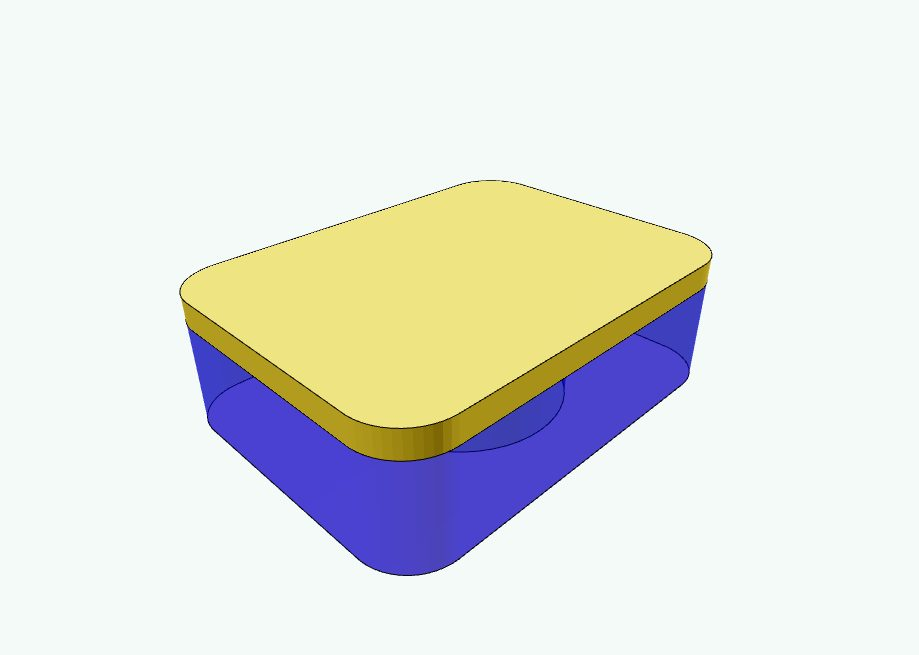
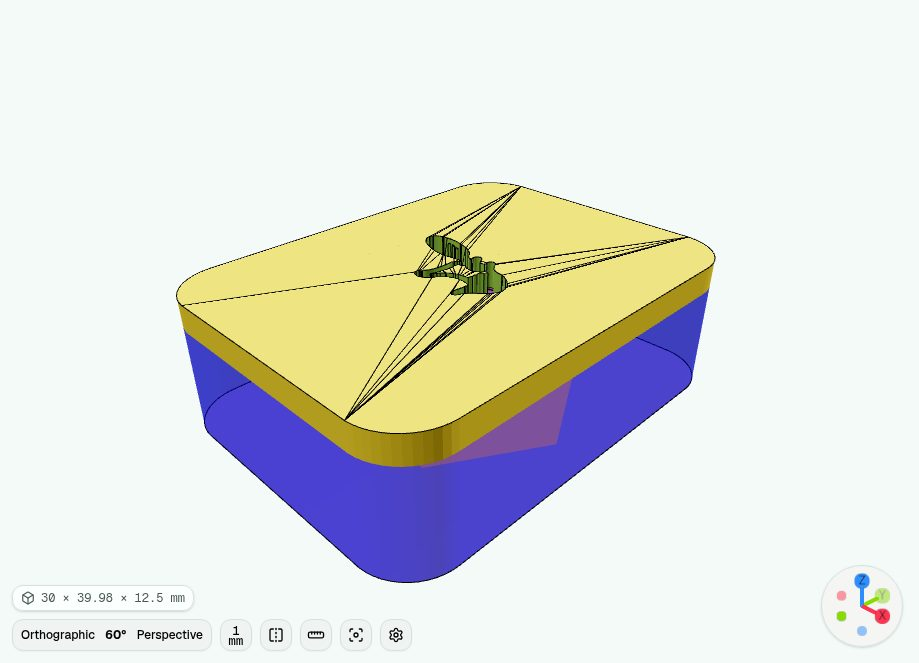
Carry a project's meshes to the render, so the stamp's handle is a model you can take away
The stamp's `component_selection` already offered Stamp and Handle. Picking
Handle produced nothing — not an empty render, an export that failed with "No
geometry available" — because the handle is a binary STL and the project loader
reads every file as `?raw` text. The mesh never reached the preview filesystem,
so the same silence hid the stamp's knub inside its own assembly.

Meshes now come through a second loader: `.stl` and `.3mf` are emitted as URLs
and fetched when the project opens, then merged into `sourceFiles` as bytes.
`PlaygroundSourceFile` becomes `string | Uint8Array` — text for what a viewer
reads or edits, bytes for what a model only imports — and the preview filesystem
takes both, since it wanted bytes all along.

Measured on the stamp, rendering each component with and without the STLs
present:

| Component | Without      | With                          |
| --------- | ------------ | ----------------------------- |
| Stamp     | 3596 tri     | 7888 tri — the knub appears   |
| Handle    | export fails | 6858 tri, 20 x 23.1 x 50 mm   |

Confirmed in the browser: switching Component Selection to Handle renders the
handle, and Export → STL downloads exactly that mesh (6858 facets, same bounds).
The gallery poster is regenerated, since the old one predates the knub.

Three details worth keeping: a fetch that fails skips the asset rather than
failing the project, because a model missing a part still opens; binary assets
[…]

diff --git a/apps/ui/app/routes/playground/projects.ts b/apps/ui/app/routes/playground/projects.ts
@@ -1,6 +1,10 @@
 import type { FileExtension } from '@taucad/types';
 import { z } from 'zod';
-import type { PlaygroundExample, PlaygroundVariant } from '#routes/playground/playground-examples.js';
+import type {
+  PlaygroundExample,
+  PlaygroundSourceFile,
+  PlaygroundVariant,
+} from '#routes/playground/playground-examples.js';
 
 const meshExportFormats = ['glb', 'stl', '3mf', 'obj'] as const;
 const solidExportFormats = ['glb', 'stl', '3mf', 'step'] as const;
@@ -172,6 +176,19 @@ const projectSourceLoadersByPath = import.meta.glob<string>('./projects/**/*.{js
   query: '?raw',
 });
 
+/**
+ * Assets a model imports at render time but no one edits: meshes and images.
+ * They cannot come through the `?raw` text loader above — an STL is bytes, and
+ * decoding it as UTF-8 corrupts it — so they are emitted as separate URLs and
+ * fetched when the project opens. That keeps them out of the gallery payload
+ * (nothing is fetched until a project is selected) and out of the code editor,
+ * which only ever shows the text sources.
+ */
+const projectBinaryAssetUrlsByPath = import.meta.glob<string>('./projects/**/*.{stl,3mf}', {
+  import: 'default',
+  query: '?url',
+});
+
 const projectStaticPreviewGlbByPath = import.meta.glob<string>('./projects/**/*.glb', {
   eager: true,
   import: 'default',
@@ -284,9 +301,40 @@ function presetsForProject(projectId: string): ProjectPresets | undefined {
   throw new Error(`Invalid root playground project presets at "${presetsPath}": ${z.prettifyError(result.error)}`);
 }
 
-async function sourceFilesForProject(projectId: string, metadata: ProjectMetadata): Promise<Record<string, string>> {
+/**
+ * The project's binary assets, by path relative to the project folder. A fetch
+ * that fails is reported and skipped rather than failing the project: the model
+ * then renders without that asset, which is exactly what it did before these
+ * were carried at all.
+ */
+async function binaryAssetsForProject(projectId: string): Promise<Record<string, Uint8Array<ArrayBuffer>>> {
   const prefix = `./projects/${projectId}/`;
-  const sourceFiles: Record<string, string> = {};
+  const matching = Object.entries(projectBinaryAssetUrlsByPath).filter(([assetPath]) => assetPath.startsWith(prefix));
+  const loaded = await Promise.all(
+    matching.map(async ([assetPath, loadUrl]) => {
+      try {
+        const response = await fetch(await loadUrl());
+        if (!response.ok) {
+          throw new Error(`HTTP ${response.status}`);
+        }
+
+        return [assetPath.slice(prefix.length), new Uint8Array(await response.arrayBuffer())] as const;
+      } catch (error) {
+        console.warn(`Playground project "${projectId}" could not load asset "${assetPath}"`, error);
+        return undefined;
+      }
+    }),
+  );
+
+  return Object.fromEntries(loaded.filter((entry) => entry !== undefined));
+}
+
+async function sourceFilesForProject(
+  projectId: string,
+  metadata: ProjectMetadata,
+): Promise<Record<string, PlaygroundSourceFile>> {
+  const prefix = `./projects/${projectId}/`;
+  const sourceFiles: Record<string, PlaygroundSourceFile> = {};
 
   const matchingLoaders = Object.entries(projectSourceLoadersByPath).filter(
     ([sourcePath]) =>
@@ -316,7 +364,7 @@ async function sourceFilesForProject(projectId: string, metadata: ProjectMetadat
     }
   }
 
-  return sourceFiles;
+  return { ...sourceFiles, ...(await binaryAssetsForProject(projectId)) };
 }
 
 function hasProjectSource(projectId: string, relativePath: string): boolean {
@@ -481,7 +529,7 @@ export async function loadProjectExample(projectId: string): Promise<PlaygroundE
   const entryFile = metadata.entry;
 
   const code = sourceFiles[mainFile] ?? sourceFiles[entryFile];
-  if (!code) {
+  if (typeof code !== 'string') {
     throw new Error(`Project "${projectId}" is missing source for entry "${entryFile}"`);
   }
 

diff --git a/apps/ui/app/routes/playground/route.tsx b/apps/ui/app/routes/playground/route.tsx
@@ -13,6 +13,7 @@ import { FileManagerProvider } from '#hooks/use-file-manager.js';
 import { loadPlaygroundExample, playgroundExamples } from '#routes/playground/playground-examples.js';
 import type {
   PlaygroundExample,
+  PlaygroundSourceFile,
   PlaygroundVariant,
   PlaygroundUpload,
   PlaygroundUploadedFile,
@@ -65,6 +66,11 @@ const shareCodec = playgroundShareCodec;
 /** The parameter pane emits override deltas; an empty record means "use defaults." */
 function hasParameterOverrides(parameters: Record<string, unknown>, baseline: Record<string, unknown>): boolean {
   return Object.keys(parameters).length > 0 && !haveSamePlaygroundParameters(parameters, baseline);
+}
+
+/** A project file's text, or undefined when it is one of the binary assets. */
+function sourceText(file: PlaygroundSourceFile | undefined): string | undefined {
+  return typeof file === 'string' ? file : undefined;
 }
 
 type PlaygroundVariantSession = {
@@ -286,7 +292,9 @@ function PlaygroundLoaded({
   const shippedUploadFiles = useMemo(() => {
     const files: Record<string, PlaygroundUploadedFile> = {};
     for (const upload of activeExample.uploads ?? []) {
-      const content = activeExample.sourceFiles?.[upload.fileName];
+      // Uploads are text, so a binary asset cannot seed a slot — nor does one
+      // need to, since nothing declares an upload for a mesh.
+      const content = sourceText(activeExample.sourceFiles?.[upload.fileName]);
       if (content !== undefined) {
         files[upload.fileName] = { name: upload.fileName, content };
       }
@@ -345,7 +353,10 @@ function PlaygroundLoaded({
   const files = useMemo(
     () =>
       Object.fromEntries(
-        Object.entries(previewSourceFiles).map(([path, content]) => [path, { content: encodeTextFile(content) }]),
+        Object.entries(previewSourceFiles).map(([path, content]) => [
+          path,
+          { content: typeof content === 'string' ? encodeTextFile(content) : content },
+        ]),
       ),
     [previewSourceFiles],
   );
@@ -885,7 +896,7 @@ function applyVariant(example: PlaygroundExample, variant: PlaygroundVariant | u
     ...(variant.renderTimeout ? { renderTimeout: variant.renderTimeout } : {}),
     ...(typeof variant.showPreviewLines === 'boolean' ? { showPreviewLines: variant.showPreviewLines } : {}),
     ...(variant.renderOptions ? { renderOptions: variant.renderOptions } : {}),
-    code: example.sourceFiles?.[variant.mainFile] ?? example.code,
+    code: sourceText(example.sourceFiles?.[variant.mainFile]) ?? example.code,
   };
 }
 

diff --git a/apps/ui/app/routes/playground/projects.test.ts b/apps/ui/app/routes/playground/projects.test.ts
@@ -1,4 +1,4 @@
-import { describe, expect, it } from 'vitest';
+import { afterEach, describe, expect, it, vi } from 'vitest';
 import {
   loadProjectExample,
   parseUploadAccept,
@@ -69,6 +69,44 @@ describe('project uploads', () => {
     expect(parseUploadAccept('.svg')).toBeUndefined();
   });
   /* eslint-enable @typescript-eslint/naming-convention */
+});
+
+describe('project binary assets', () => {
+  const originalFetch = globalThis.fetch;
+
+  afterEach(() => {
+    globalThis.fetch = originalFetch;
+    vi.restoreAllMocks();
+  });
+
+  it('carries a mesh as bytes while its sources stay text', async () => {
+    // A binary STL cannot come through the `?raw` text loader — decoding it as
+    // UTF-8 corrupts it — so it is fetched from its emitted URL instead. Both
+    // shapes end up in the same `sourceFiles` record, because the preview
+    // filesystem takes bytes either way.
+    globalThis.fetch = vi.fn(async () => new Response(new Uint8Array([0x53, 0x54, 0x4c, 0x42])));
+
+    const stamp = await loadProjectExample('stamp');
+    const handle = stamp?.sourceFiles?.['stamp_template_handle.stl'];
+
+    expect(ArrayBuffer.isView(handle)).toBe(true);
+    expect((handle as Uint8Array).byteLength).toBe(4);
+    expect(typeof stamp?.sourceFiles?.['Main.scad']).toBe('string');
+    expect(typeof stamp?.sourceFiles?.['yaa.svg']).toBe('string');
+  });
+
+  it('drops an asset it cannot fetch instead of failing the whole project', async () => {
+    // Losing the knub is a model that renders without it; throwing here would
+    // be a project that does not open at all.
+    globalThis.fetch = vi.fn(async () => new Response(undefined, { status: 404 }));
+    const warn = vi.spyOn(console, 'warn').mockImplementation(() => undefined);
+
+    const stamp = await loadProjectExample('stamp');
+
+    expect(stamp?.sourceFiles?.['stamp_template_handle.stl']).toBeUndefined();
+    expect(typeof stamp?.code).toBe('string');
+    expect(warn).toHaveBeenCalled();
+  });
 });
 
 describe('project examples discovery', () => {

diff --git a/apps/ui/app/routes/playground/playground-preview-cache.ts b/apps/ui/app/routes/playground/playground-preview-cache.ts
@@ -1,4 +1,5 @@
 import type { Geometry } from '@taucad/types';
+import type { PlaygroundSourceFile } from '#routes/playground/playground-examples.js';
 import { LruMap } from '@taucad/utils/cache';
 
 const mebibyte = 1024 * 1024;
@@ -13,7 +14,7 @@ export type PlaygroundPreviewCacheRequest = {
   readonly mainFile: string;
   readonly parameters: Record<string, unknown>;
   readonly renderOptions: Record<string, unknown> | undefined;
-  readonly sourceFiles: Readonly<Record<string, string>>;
+  readonly sourceFiles: Readonly<Record<string, PlaygroundSourceFile>>;
 };
 
 /** Stable tagged serialization for render-request cache keys and parameter comparisons. */
@@ -87,7 +88,20 @@ export function serializePlaygroundCacheValue(value: unknown, seen = new Set<unk
 
 /** Build a dependency-complete key for one playground preview request. */
 export function buildPlaygroundPreviewCacheKey(request: PlaygroundPreviewCacheRequest): string {
-  return serializePlaygroundCacheValue(request);
+  // Binary assets enter the key by size rather than by content. They ship with
+  // the project and nothing in the playground can edit them — the code editor
+  // holds text and uploads are read as text — so their length identifies them
+  // for as long as a session lasts, and the alternative is stringifying a
+  // 340 KB mesh byte by byte on every parameter change.
+  return serializePlaygroundCacheValue({
+    ...request,
+    sourceFiles: Object.fromEntries(
+      Object.entries(request.sourceFiles).map(([path, file]) => [
+        path,
+        typeof file === 'string' ? file : `bytes:${file.byteLength}`,
+      ]),
+    ),
+  });
 }
 
 /** Compare parameter records without depending on object key order. */

diff --git a/apps/ui/app/routes/playground/playground-examples.ts b/apps/ui/app/routes/playground/playground-examples.ts
@@ -40,6 +40,13 @@ export type PlaygroundUpload = {
   readonly label: string;
 };
 
+/**
+ * A project file as the preview filesystem receives it: text for everything a
+ * viewer can read or edit, bytes for the assets a model only imports (meshes,
+ * images), which cannot survive being decoded as UTF-8.
+ */
+export type PlaygroundSourceFile = string | Uint8Array<ArrayBuffer>;
+
 /** A file the viewer supplied, kept with the name they picked it under. */
 export type PlaygroundUploadedFile = {
   readonly name: string;
@@ -96,7 +103,7 @@ export type PlaygroundExample = {
   /** Alternate kernel implementations; when present, includes the default variant. */
   readonly variants?: readonly PlaygroundVariant[];
   readonly code: string;
-  readonly sourceFiles?: Record<string, string>;
+  readonly sourceFiles?: Record<string, PlaygroundSourceFile>;
 };
 
 const curatedPlaygroundExamples: readonly PlaygroundExample[] = [

diff --git a/docs/architecture/root-playground-projects.md b/docs/architecture/root-playground-projects.md
@@ -114,16 +114,34 @@ bevels.
 
 Binary assets such as `.stl` and `.glb` are not loaded into the code editor by this path. Static
 (`"type": "static"`) projects reference a pre-rendered `.glb` via `previewGlb` / `staticPreview`
-and render viewer-only. If a project needs other binary runtime assets, add an explicit runtime
-asset plan before adding the project.
+and render viewer-only.
 
-They do not reach the _render_ either, and that failure is quiet. The loader reads every matched
-file as `?raw` text, so a binary `.stl` cannot be carried even by widening the glob, and it never
-lands in the preview filesystem the kernel mounts. A model that imports one gets an OpenSCAD warning
-(`Can't open import file '/…stl'`) and geometry with that part silently missing — the stamp's knub
-and its whole `component_selection = "handle"` branch render as nothing for exactly this reason. Do
-not carry an asset a model imports at render time until that plan exists; a customizer parameter
-naming such a file is worse than nothing, because it offers to change a file that is not there.
+### Binary runtime assets
+
+A model that `import()`s a mesh gets it through a second loader:
+
+```text
+.stl, .3mf
+```
+
+These cannot ride the `?raw` text glob — decoding an STL as UTF-8 corrupts it — so they are emitted
+as URLs and fetched when the project opens, then merged into the same `sourceFiles` record as bytes.
+`PlaygroundSourceFile` is therefore `string | Uint8Array`: text for anything a viewer reads or
+edits, bytes for anything a model only imports. The preview filesystem takes bytes either way, and
+the OpenSCAD kernel mounts every project asset beside the sources, so `import("part.stl")` resolves.
+
+Three things follow, and they are easy to get wrong:
+
+- **A fetch that fails is skipped, not fatal.** Losing a mesh is a model rendering without that
+  part; throwing would be a project that does not open at all.
+- **Binary assets enter the preview cache key by byte length, not by content.** Nothing in the
+  playground can edit them, and hashing a 340 KB mesh on every parameter change is not free.
+- **The code editor never shows them,** so `example.code` and the variant sources are always text —
+  read them through a helper that returns `undefined` for bytes rather than casting.
+
+Before this existed, an imported mesh failed quietly: OpenSCAD warned `Can't open import file
+'/…stl'` and rendered that part as nothing. The stamp's knub was invisible for that reason, and its
+`component_selection = "handle"` branch produced no geometry at all.
 
 ## Hidden Projects
 
